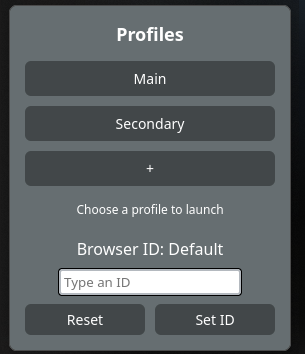
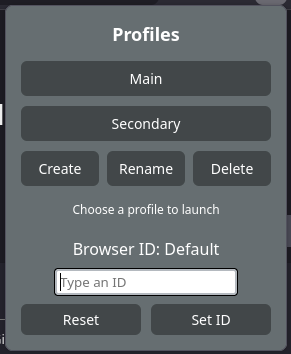
things

diff --git a/extension/popup.js b/extension/popup.js
@@ -23,48 +23,120 @@ async function loadProfiles() {
     list.appendChild(li);
   });
   if (navigator.platform.toLowerCase().includes("linux")) {
-    let btn = document.createElement("button");
-    btn.id = "toggleBtn"
-    btn.textContent = "+";
-    btn.addEventListener("click", toggleCreate);
-    list.appendChild(btn);
+    let btnContainer = document.createElement("div");
+    btnContainer.style.display = "flex";
+    btnContainer.style.gap = "8px";
+
+    let btn1 = document.createElement("button");
+    btn1.textContent = "Create";
+    btn1.addEventListener("click", () => toggleButton("Create"));
+
+    let btn2 = document.createElement("button");
+    btn2.textContent = "Rename";
+    btn2.addEventListener("click", () => toggleButton("Rename"));
+
+    let btn3 = document.createElement("button");
+    btn3.textContent = "Delete";
+    btn3.addEventListener("click", () => toggleButton("Delete"));
+
+    btnContainer.appendChild(btn1);
+    btnContainer.appendChild(btn2);
+    btnContainer.appendChild(btn3);
+    list.appendChild(btnContainer);
   }
 }
 
 
-function toggleCreate() {
+function toggleButton(btname) {
   if (document.getElementById("dynamicInput")) {
     location.reload();
   } else {
     const container = document.createElement("div");
     container.className = "toggle-container";
+    container.style.display = "flex";
+    container.style.alignItems = "flex-start";
+    container.style.gap = "12px";
 
-    const input = document.createElement("input");
-    input.type = "text";
-    input.id = "dynamicInput";
-    input.placeholder = "New profile name";
+    function makeInput(id, placeholder) {
+      const input = document.createElement("input");
+      input.type = "text";
+      input.id = id;
+      input.placeholder = placeholder;
+      return input;
+    }
+
+    let input1 = makeInput("dynamicInput", "Profile name");
+    let input2 = null;
+
+    const inputWrapper = document.createElement("div");
+    inputWrapper.style.display = "flex";
+    inputWrapper.style.flexDirection = "column";
+    inputWrapper.style.gap = "6px";
+
+    inputWrapper.appendChild(input1);
+
+    if (btname === "Rename") {
+      input2 = makeInput("dynamicInput2", "New profile name");
+      inputWrapper.appendChild(input2);
+    }
+
+    let deleteCheckbox = null;
+    if (btname === "Delete") {
+      deleteCheckbox = document.createElement("input");
+      deleteCheckbox.type = "checkbox";
+      deleteCheckbox.id = "deleteFilesCheckbox";
+
+      const label = document.createElement("label");
+      label.htmlFor = "deleteFilesCheckbox";
+      label.textContent = "Delete Files?";
+      label.style.color = "white"
+
+      const checkboxWrapper = document.createElement("div");
+      checkboxWrapper.style.display = "flex";
+      checkboxWrapper.style.alignItems = "center";
+      checkboxWrapper.style.gap = "4px";
+      checkboxWrapper.appendChild(deleteCheckbox);
+      checkboxWrapper.appendChild(label);
+
+      inputWrapper.appendChild(checkboxWrapper);
+    }
+
+    container.appendChild(inputWrapper);
 
     const btn = document.createElement("button");
-    btn.textContent = "Create Profile";
+    btn.textContent = btname + " Profile";
     btn.id = "dynamicButton";
     btn.addEventListener("click", async () => {
-      let result = await sendNativeMessage({ command: "create", profile: input.value.trim() });
+      let profileValue = input1.value.trim();
+      let newValue = input2 ? input2.value.trim() : null;
+      let deleteFiles = deleteCheckbox ? deleteCheckbox.checked : false;
+
+      let result = await sendNativeMessage({
+        command: btname,
+        profile: profileValue,
+        newProfile: newValue,
+        deleteFiles: deleteFiles
+      });
       location.reload();
     });
 
-    container.appendChild(input);
     container.appendChild(btn);
     toggleArea.appendChild(container);
-    input.focus()
-    input.addEventListener("keypress", function(event) {
-      if (event.key === "Enter") {
-        event.preventDefault();
-        btn.click();
+
+    input1.focus();
+
+    [input1, input2].forEach(inp => {
+      if (inp) {
+        inp.addEventListener("keypress", function(event) {
+          if (event.key === "Enter") {
+            event.preventDefault();
+            btn.click();
+          }
+        });
       }
     });
   }
-};
-
+}
 
 document.addEventListener("DOMContentLoaded", async () => {
   const idLabel = document.getElementById("idLabel");

diff --git a/extension/popup.html b/extension/popup.html
@@ -93,6 +93,11 @@
       padding: 4px;
       font-size: 14px;
     }
+    #dynamicInput2 {
+      width: 125px;
+      padding: 4px;
+      font-size: 14px;
+    }
 
   </style>
 </head>

diff --git a/pl_installer_linux.py b/pl_installer_linux.py
@@ -49,8 +49,10 @@ with open(script, "w") as f:
         PROFILES_DIR = "~/.zen/"
     if BROWSER_DIR == "":
         BROWSER_DIR = "~/.local/share/applications/zen/zen"
+    PROF_LOCATION = os.path.join(PROFILES_DIR, "profiles.ini")
     f.write(f"PROFILES_DIR = os.path.expanduser(\"{PROFILES_DIR}\")\n")
     f.write(f"BROWSER_DIR = os.path.expanduser(\"{BROWSER_DIR}\")\n")
+    f.write(f"PROF_LOCATION = os.path.expanduser(\"{PROF_LOCATION}\")\n")
     f.write(s[1])
 
 os.chmod(script, 0o755)
@@ -82,6 +84,47 @@ def list_profiles():
     return profiles
 
 
+def rename_profile(pname, newpname):
+    file = ""
+    with open(PROF_LOCATION, "r") as f:
+        for line in f:
+            if line == ("Name=" + pname + "\n"):
+                line = "Name=" + newpname + "\n"
+            file += line
+    with open(PROF_LOCATION, "w") as f:
+        f.write(file)
+
+
+def delete_profile(pname, delFiles):
+    file = ""
+    del_location = ""
+    with open(PROF_LOCATION, "r") as f:
+        lines = f.readlines()
+        prevline = lines[0]
+        i = 1
+        while i < len(lines):
+            if lines[i] == "Name=" + pname + "\n":
+                while (
+                    i < len(lines)
+                    and not lines[i].startswith("[")
+                    and not lines[i].endswith("]\n")
+                ):
+                    if delFiles and lines[i].startswith("Path="):
+                        del_location = lines[i].split("=", maxsplit=1)[1][:-1]
+                    i += 1
+                prevline = lines[i - 1]
+                continue
+            else:
+                file += prevline
+                prevline = lines[i]
+            i += 1
+    with open(PROF_LOCATION, "w") as f:
+        f.write(file)
+    if delFiles:
+        subprocess.Popen(["rm", "-r", os.path.join(PROFILES_DIR, del_location)])
+
+
+
 def read_message():
     raw_length = sys.stdin.buffer.read(4)
     if len(raw_length) == 0:
@@ -105,6 +148,9 @@ if msg:
     elif msg.get("command") == "launch":
         profile = msg.get("profile")
         subprocess.Popen([BROWSER_DIR, "-P", profile])
-    elif msg.get("command") == "create":
-        profile = msg.get("profile")
-        subprocess.Popen([BROWSER_DIR, "-CreateProfile", profile])
+    elif msg.get("command") == "Create":
+        subprocess.Popen([BROWSER_DIR, "-CreateProfile", msg.get("profile")])
+    elif msg.get("command") == "Rename":
+        rename_profile(msg.get("profile"), msg.get("newProfile"))
+    elif msg.get("command") == "Delete":
+        delete_profile(msg.get("profile"), msg.get("deleteFiles"))
